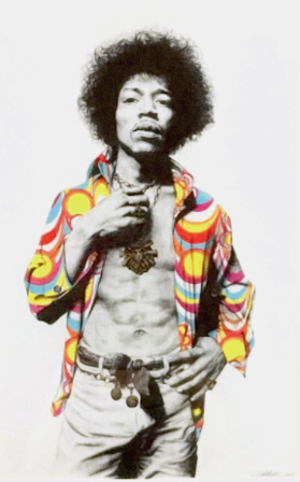
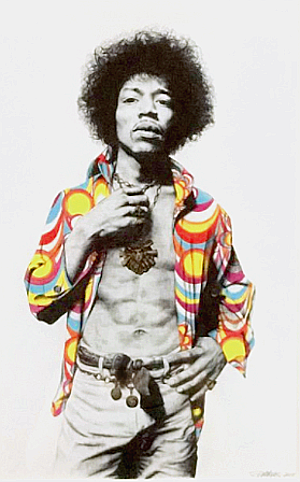
fixed photo resolutions

diff --git a/about.html b/about.html
@@ -8,7 +8,15 @@
     <title>Ditas Fleck Portfolio</title>
     <link rel="stylesheet" href="https://maxcdn.bootstrapcdn.com/bootstrap/4.0.0-beta.2/css/bootstrap.min.css" integrity="sha384-PsH8R72JQ3SOdhVi3uxftmaW6Vc51MKb0q5P2rRUpPvrszuE4W1povHYgTpBfshb" crossorigin="anonymous">
     <link href="css/landing-page.css" rel="stylesheet">
+<style>
+
+
+
+
+
+</style>
   </head>
+
   <body>
 
 <header class="intro-header">
@@ -17,22 +25,22 @@
           <a href="index.html"><img class="img-responsive" id="myname" src="img/name.png"><br>
             <ul>
               <li class="list-inline-item">
-                <div onclick=""><a href="about.html"><img src="img/about1.png"
+                <div onclick="void(0)"><a href="about.html"><img id="one" src="img/about1.png"
                 onmouseover="this.src='img/about2.png'"
-                onmouseout="this.src='img/about1.png'"/></div>
-              </a>
+                onmouseout="this.src='img/about1.png'"/>
+              </a></div>
               </li>
               <li class="list-inline-item">
-                <div onclick=""><a href="illustrations.html"><img src="img/illustrations1.png"
+                <div onclick="void(0)"><a href="illustrations.html"><img src="img/illustrations1.png"
                 onmouseover="this.src='img/illustrations2.png'"
-                onmouseout="this.src='img/illustrations1.png'"/></div>
-              </a>
+                onmouseout="this.src='img/illustrations1.png'"/>
+              </a></div>
               </li>
               <li class="list-inline-item">
-                <div onclick=""><a href="tech.html"><img src="img/tech1.png"
+                <div onclick="void(0)"><a href="tech.html"><img src="img/tech1.png"
                 onmouseover="this.src='img/tech2.png'"
-                onmouseout="this.src='img/tech1.png'"/></div>
-                </a>
+                onmouseout="this.src='img/tech1.png'"/>
+                </a></div>
               </li>
             </ul>
 
@@ -49,7 +57,7 @@
 
             <p>I love learning (can you tell!?), technology (I'm addicted to my laptop.), traveling, everything art (especially street art), reading about cultures, textile designs, and tattoos!</p><br>
 
-            <p>I'm introverted, totally shy, love to laugh, dance (when noone's looking) and hate talking about myself.  Come say hi to me!</p><br>
+            <p>I'm introverted, totally shy, love to laugh, dance (when noone's looking) and hate talking about myself.  I struggle with wanting to be noticed, but not wanting to be noticed.  Come say hi to me!</p><br>
 
             <p>You could find me around art functions getting my nose as close as possible to the art (still!!) and eventually at more tech meetups.  Gotta keep learning!  (I do drag my hubby with me.  He loves it, I promise!  He worked at Spacex and now at an electric car startup, so people love to talk to him...which makes me feel like I'm socializing since I'm sort of in the conversation too).  Haha!
             </p><br>

diff --git a/illustrations.html b/illustrations.html
@@ -83,7 +83,7 @@
       <div class="card-body">
         <h4 class="card-title">Kobe Bryant</h4>
           <p class="card-text">Created with a black Bic ballpoint pen, and acrylic paint.<br> 28" x 40" framed</p>
-            <small>Not available.</cite></small>
+            <small>Not available. Sold.</cite></small>
       </div>
   </div>
 
@@ -119,7 +119,7 @@
     <img class="card-img-top" src="img/portfolio images/janet.png" alt="Janet">
       <div class="card-body">
         <h4 class="card-title">Janet Jackson</h4>
-          <p class="card-text">Created with a black Bic ballpoint pen, and acrylic paint.<br> 12" x 18" framed</p>
+          <p class="card-text">Created with a black Bic ballpoint pen, and acrylic paint.<br> 12" x 18"</p>
             <small>Available for purchase, not framed.</cite></small>
       </div>
   </div>
@@ -202,11 +202,11 @@
   </div>
 
   <div class="card">
-    <img class="card-img-top" src="img/portfolio images/prince.png" alt="jimi">
+    <img class="card-img-top" src="img/portfolio images/prince.png" alt="Prince">
       <div class="card-body">
         <h4 class="card-title">Prince 4ever</h4>
           <p class="card-text">Created with a black Bic ballpoint pen, and acrylic paint.<br> 30" x 41" framed</p>
-        <small>Not available.</cite></small>
+        <small>Not available. Sold.</cite></small>
       </div>
   </div>
 
